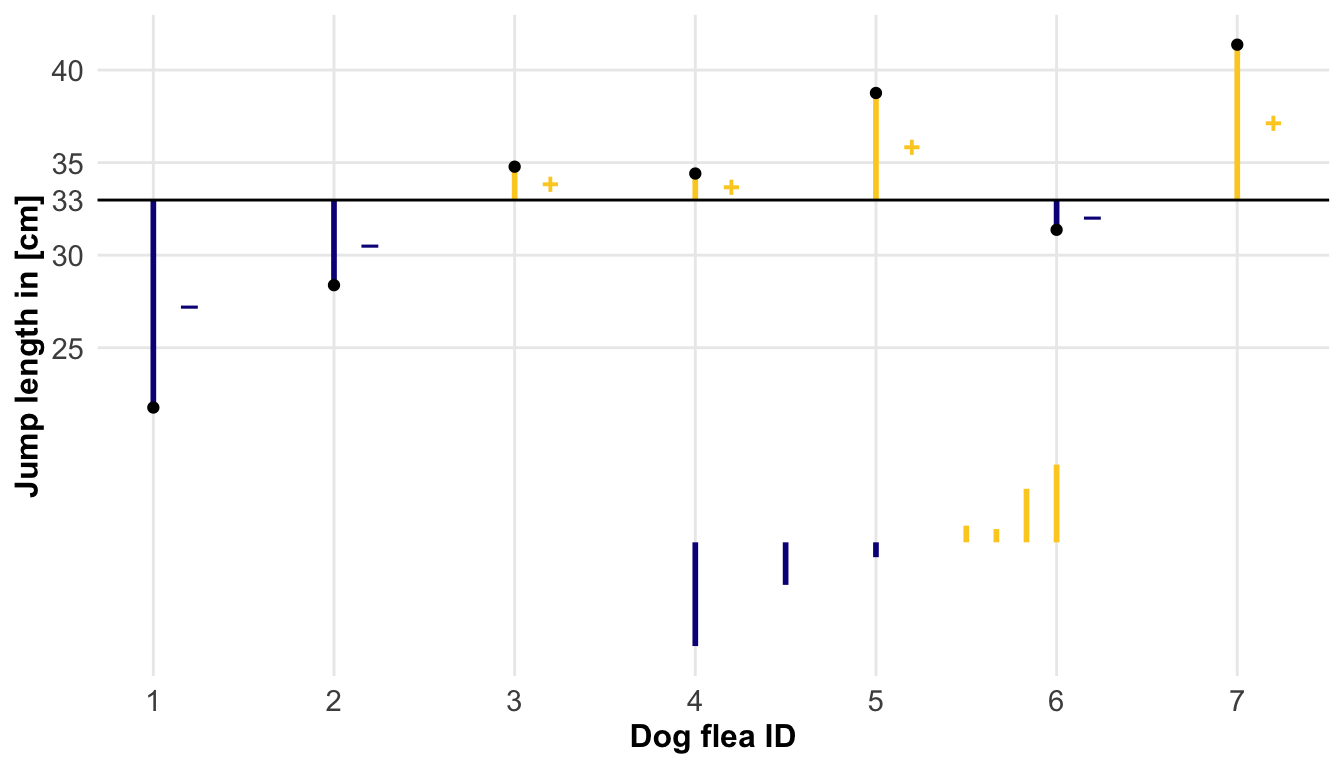
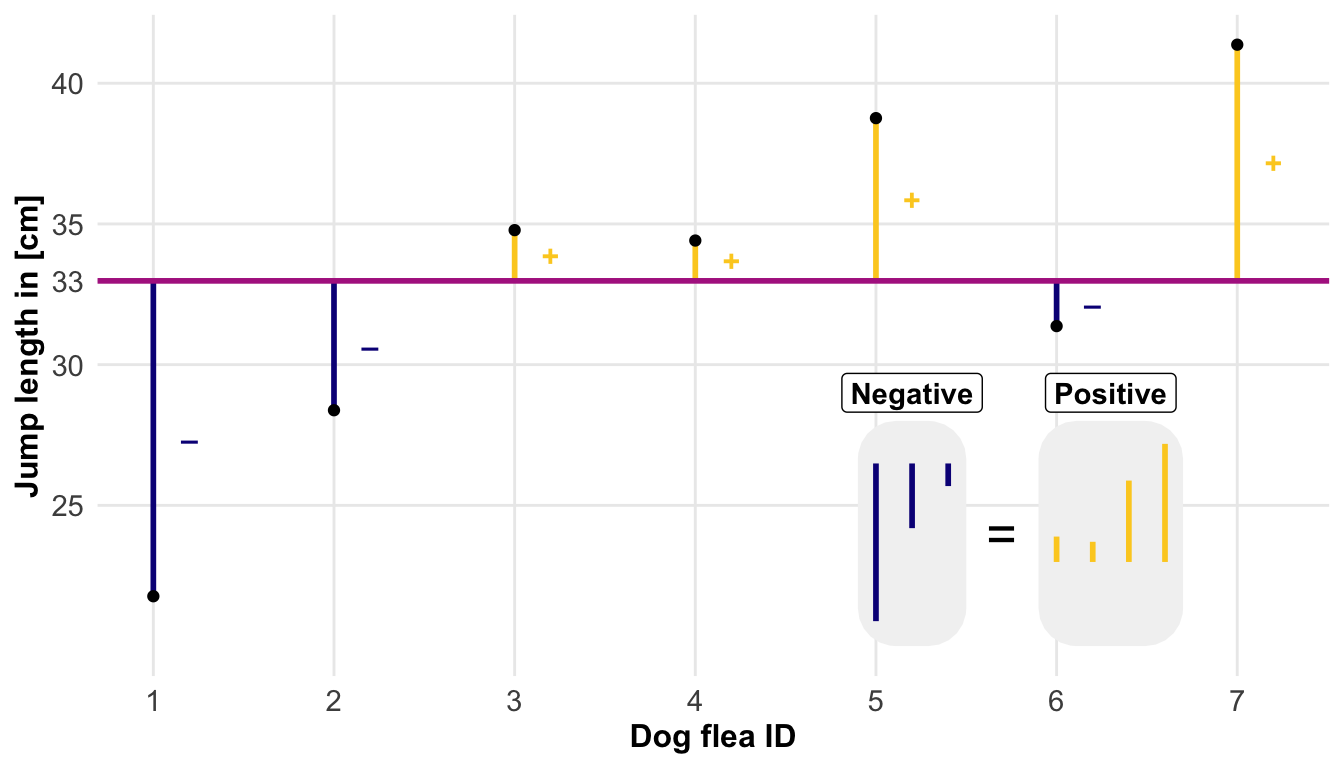
added

diff --git a/docs/chapter-41-eda.html b/docs/chapter-41-eda.html
@@ -376,7 +376,7 @@ pre > code.sourceCode > span > a:first-child::before { text-decoration: underlin
 </header>
 
 
-<p><em>Last modified on 09. December 2025 at 19:48:35</em></p>
+<p><em>Last modified on 10. December 2025 at 12:57:39</em></p>
 <blockquote class="blockquote">
 <p><em>“A quote.” — Dan Meyer</em></p>
 </blockquote>
@@ -443,6 +443,20 @@ Figure&nbsp;9.1: foo
 </div>
 <figcaption class="quarto-float-caption-bottom quarto-float-caption quarto-float-fig" id="fig-mean-example-caption-0ceaefa1-69ba-4598-a22c-09a6ac19f8ca">
 Figure&nbsp;9.2: foo
+</figcaption>
+</figure>
+</div>
+</div>
+</div>
+<div class="cell" data-layout-align="center">
+<div class="cell-output-display">
+<div id="fig-var-example" class="quarto-float quarto-figure quarto-figure-center anchored" data-fig-align="center">
+<figure class="quarto-float quarto-float-fig figure">
+<div aria-describedby="fig-var-example-caption-0ceaefa1-69ba-4598-a22c-09a6ac19f8ca">
+<a href="chapter-41-eda_files/figure-html/fig-var-example-1.png" class="lightbox" data-gallery="quarto-lightbox-gallery-3" title="Figure&nbsp;9.3: foo"><img src="chapter-41-eda_files/figure-html/fig-var-example-1.png" class="img-fluid quarto-figure quarto-figure-center figure-img" width="864"></a>
+</div>
+<figcaption class="quarto-float-caption-bottom quarto-float-caption quarto-float-fig" id="fig-var-example-caption-0ceaefa1-69ba-4598-a22c-09a6ac19f8ca">
+Figure&nbsp;9.3: foo
 </figcaption>
 </figure>
 </div>
@@ -1059,42 +1073,101 @@ Figure&nbsp;9.2: foo
 <span id="cb4-83"><a href="#cb4-83" aria-hidden="true" tabindex="-1"></a>                   <span class="at">color =</span> sign), <span class="at">show.legend =</span> <span class="cn">FALSE</span>, <span class="at">size =</span> <span class="dv">1</span>) <span class="sc">+</span></span>
 <span id="cb4-84"><a href="#cb4-84" aria-hidden="true" tabindex="-1"></a>  <span class="fu">geom_text</span>(<span class="fu">aes</span>(<span class="at">x =</span> <span class="dv">1</span><span class="sc">:</span><span class="dv">7</span>, <span class="at">y =</span> jumplength <span class="sc">-</span> e<span class="sc">/</span><span class="dv">2</span>, <span class="at">label =</span> sign, <span class="at">color =</span> sign),</span>
 <span id="cb4-85"><a href="#cb4-85" aria-hidden="true" tabindex="-1"></a>            <span class="at">size =</span> <span class="dv">4</span>, <span class="at">position =</span> <span class="fu">position_nudge</span>(<span class="fl">0.2</span>), <span class="at">fontface =</span> <span class="dv">2</span>, <span class="at">show.legend =</span> <span class="cn">FALSE</span>) <span class="sc">+</span></span>
-<span id="cb4-86"><a href="#cb4-86" aria-hidden="true" tabindex="-1"></a>  <span class="fu">geom_hline</span>(<span class="at">yintercept =</span> mean_dog_jump) <span class="sc">+</span></span>
+<span id="cb4-86"><a href="#cb4-86" aria-hidden="true" tabindex="-1"></a>  <span class="fu">geom_hline</span>(<span class="at">yintercept =</span> mean_dog_jump, <span class="at">color =</span> <span class="st">"#B12A90FF"</span>, <span class="at">size =</span> <span class="dv">1</span>) <span class="sc">+</span></span>
 <span id="cb4-87"><a href="#cb4-87" aria-hidden="true" tabindex="-1"></a>  <span class="fu">geom_point</span>() <span class="sc">+</span></span>
 <span id="cb4-88"><a href="#cb4-88" aria-hidden="true" tabindex="-1"></a>  <span class="fu">scale_x_continuous</span>(<span class="at">breaks =</span> <span class="dv">1</span><span class="sc">:</span><span class="dv">7</span>) <span class="sc">+</span></span>
 <span id="cb4-89"><a href="#cb4-89" aria-hidden="true" tabindex="-1"></a>  <span class="fu">scale_y_continuous</span>(<span class="at">breaks =</span> <span class="fu">c</span>(<span class="dv">25</span>, <span class="dv">30</span>, mean_dog_jump, <span class="dv">35</span>, <span class="dv">40</span>),</span>
 <span id="cb4-90"><a href="#cb4-90" aria-hidden="true" tabindex="-1"></a>                     <span class="at">labels =</span> <span class="fu">c</span>(<span class="st">"25"</span>, <span class="st">"30"</span>, <span class="fu">round</span>(mean_dog_jump,<span class="dv">1</span>), <span class="st">"35"</span>, <span class="st">"40"</span>)) <span class="sc">+</span></span>
 <span id="cb4-91"><a href="#cb4-91" aria-hidden="true" tabindex="-1"></a>  <span class="fu">labs</span>(<span class="at">x =</span> <span class="st">"Dog flea ID"</span>, <span class="at">y =</span> <span class="st">"Jump length in [cm]"</span>) <span class="sc">+</span></span>
 <span id="cb4-92"><a href="#cb4-92" aria-hidden="true" tabindex="-1"></a>  <span class="fu">scale_color_viridis</span>(<span class="at">discrete =</span> <span class="cn">TRUE</span>, <span class="at">option =</span> <span class="st">"plasma"</span>, <span class="at">end =</span> <span class="fl">0.9</span>) <span class="sc">+</span></span>
-<span id="cb4-93"><a href="#cb4-93" aria-hidden="true" tabindex="-1"></a>  <span class="fu">geom_segment</span>(<span class="at">data =</span> <span class="fu">filter</span>(jump_dog_plot_tbl, sign <span class="sc">==</span> <span class="st">"\U2012"</span>),</span>
-<span id="cb4-94"><a href="#cb4-94" aria-hidden="true" tabindex="-1"></a>    <span class="fu">aes</span>(<span class="at">x =</span> <span class="fu">seq</span>(<span class="dv">4</span>, <span class="dv">5</span>, <span class="at">length.out =</span> <span class="dv">3</span>), <span class="at">xend =</span> <span class="fu">seq</span>(<span class="dv">4</span>, <span class="dv">5</span>, <span class="at">length.out =</span> <span class="dv">3</span>), </span>
-<span id="cb4-95"><a href="#cb4-95" aria-hidden="true" tabindex="-1"></a>                   <span class="at">y =</span> (jumplength<span class="dv">-4</span>)<span class="sc">/</span><span class="dv">2</span>, <span class="at">yend =</span> (mean_dog_jump<span class="dv">-4</span>)<span class="sc">/</span><span class="dv">2</span>, </span>
-<span id="cb4-96"><a href="#cb4-96" aria-hidden="true" tabindex="-1"></a>                   <span class="at">color =</span> sign), <span class="at">show.legend =</span> <span class="cn">FALSE</span>, <span class="at">size =</span> <span class="dv">1</span>) <span class="sc">+</span></span>
-<span id="cb4-97"><a href="#cb4-97" aria-hidden="true" tabindex="-1"></a>  <span class="fu">geom_segment</span>(<span class="at">data =</span> <span class="fu">filter</span>(jump_dog_plot_tbl, sign <span class="sc">==</span> <span class="st">"+"</span>),</span>
-<span id="cb4-98"><a href="#cb4-98" aria-hidden="true" tabindex="-1"></a>    <span class="fu">aes</span>(<span class="at">x =</span> <span class="fu">seq</span>(<span class="fl">5.5</span>, <span class="dv">6</span>, <span class="at">length.out =</span> <span class="dv">4</span>), <span class="at">xend =</span> <span class="fu">seq</span>(<span class="fl">5.5</span>, <span class="dv">6</span>, <span class="at">length.out =</span> <span class="dv">4</span>), </span>
-<span id="cb4-99"><a href="#cb4-99" aria-hidden="true" tabindex="-1"></a>                   <span class="at">y =</span> (jumplength<span class="dv">-4</span>)<span class="sc">/</span><span class="dv">2</span>, <span class="at">yend =</span> (mean_dog_jump<span class="dv">-4</span>)<span class="sc">/</span><span class="dv">2</span>, </span>
-<span id="cb4-100"><a href="#cb4-100" aria-hidden="true" tabindex="-1"></a>                   <span class="at">color =</span> sign), <span class="at">show.legend =</span> <span class="cn">FALSE</span>, <span class="at">size =</span> <span class="dv">1</span>) </span>
-<span id="cb4-101"><a href="#cb4-101" aria-hidden="true" tabindex="-1"></a></span>
-<span id="cb4-102"><a href="#cb4-102" aria-hidden="true" tabindex="-1"></a><span class="in">```</span></span>
-<span id="cb4-103"><a href="#cb4-103" aria-hidden="true" tabindex="-1"></a></span>
-<span id="cb4-104"><a href="#cb4-104" aria-hidden="true" tabindex="-1"></a></span>
-<span id="cb4-105"><a href="#cb4-105" aria-hidden="true" tabindex="-1"></a><span class="fu">## Alternatives </span></span>
-<span id="cb4-106"><a href="#cb4-106" aria-hidden="true" tabindex="-1"></a></span>
-<span id="cb4-107"><a href="#cb4-107" aria-hidden="true" tabindex="-1"></a>Further tutorials and R packages on XXX</span>
-<span id="cb4-108"><a href="#cb4-108" aria-hidden="true" tabindex="-1"></a></span>
-<span id="cb4-109"><a href="#cb4-109" aria-hidden="true" tabindex="-1"></a><span class="fu">## Glossary</span></span>
-<span id="cb4-110"><a href="#cb4-110" aria-hidden="true" tabindex="-1"></a></span>
-<span id="cb4-111"><a href="#cb4-111" aria-hidden="true" tabindex="-1"></a>term</span>
+<span id="cb4-93"><a href="#cb4-93" aria-hidden="true" tabindex="-1"></a>  <span class="fu">geom_shape</span>(<span class="at">data =</span> <span class="fu">tibble</span>(<span class="at">x =</span> <span class="fu">c</span>(<span class="fl">4.9</span>, <span class="fl">5.5</span>, <span class="fl">5.5</span>, <span class="fl">4.9</span>), </span>
+<span id="cb4-94"><a href="#cb4-94" aria-hidden="true" tabindex="-1"></a>                           <span class="at">y =</span> <span class="fu">c</span>(<span class="dv">20</span>, <span class="dv">20</span>, <span class="dv">28</span>, <span class="dv">28</span>)),</span>
+<span id="cb4-95"><a href="#cb4-95" aria-hidden="true" tabindex="-1"></a>             <span class="fu">aes</span>(x, y), <span class="at">radius =</span> <span class="fu">unit</span>(<span class="fl">0.5</span>, <span class="st">'cm'</span>), <span class="at">fill =</span> <span class="st">"gray95"</span>) <span class="sc">+</span></span>
+<span id="cb4-96"><a href="#cb4-96" aria-hidden="true" tabindex="-1"></a>  <span class="fu">geom_shape</span>(<span class="at">data =</span> <span class="fu">tibble</span>(<span class="at">x =</span> <span class="fu">c</span>(<span class="fl">5.9</span>, <span class="fl">6.7</span>, <span class="fl">6.7</span>, <span class="fl">5.9</span>), </span>
+<span id="cb4-97"><a href="#cb4-97" aria-hidden="true" tabindex="-1"></a>                           <span class="at">y =</span> <span class="fu">c</span>(<span class="dv">20</span>, <span class="dv">20</span>, <span class="dv">28</span>, <span class="dv">28</span>)),</span>
+<span id="cb4-98"><a href="#cb4-98" aria-hidden="true" tabindex="-1"></a>             <span class="fu">aes</span>(x, y), <span class="at">radius =</span> <span class="fu">unit</span>(<span class="fl">0.5</span>, <span class="st">'cm'</span>), <span class="at">fill =</span> <span class="st">"gray95"</span>) <span class="sc">+</span></span>
+<span id="cb4-99"><a href="#cb4-99" aria-hidden="true" tabindex="-1"></a>  <span class="fu">annotate</span>(<span class="st">"label"</span>, <span class="at">x =</span> <span class="fl">5.2</span>, <span class="at">y =</span> <span class="dv">29</span>, <span class="at">label =</span> <span class="st">"Negative"</span>, <span class="at">fontface =</span> <span class="dv">2</span>) <span class="sc">+</span></span>
+<span id="cb4-100"><a href="#cb4-100" aria-hidden="true" tabindex="-1"></a>  <span class="fu">annotate</span>(<span class="st">"label"</span>, <span class="at">x =</span> <span class="fl">6.3</span>, <span class="at">y =</span> <span class="dv">29</span>, <span class="at">label =</span> <span class="st">"Positive"</span>, <span class="at">fontface =</span> <span class="dv">2</span>) <span class="sc">+</span></span>
+<span id="cb4-101"><a href="#cb4-101" aria-hidden="true" tabindex="-1"></a>  <span class="fu">geom_segment</span>(<span class="at">data =</span> <span class="fu">filter</span>(jump_dog_plot_tbl, sign <span class="sc">==</span> <span class="st">"\U2012"</span>),</span>
+<span id="cb4-102"><a href="#cb4-102" aria-hidden="true" tabindex="-1"></a>    <span class="fu">aes</span>(<span class="at">x =</span> <span class="dv">5</span> <span class="sc">+</span> <span class="fu">c</span>(<span class="dv">0</span>, <span class="fl">0.2</span>, <span class="fl">0.4</span>), <span class="at">xend =</span> <span class="dv">5</span> <span class="sc">+</span> <span class="fu">c</span>(<span class="dv">0</span>, <span class="fl">0.2</span>, <span class="fl">0.4</span>), </span>
+<span id="cb4-103"><a href="#cb4-103" aria-hidden="true" tabindex="-1"></a>                   <span class="at">y =</span> (jumplength<span class="sc">+</span><span class="dv">20</span>)<span class="sc">/</span><span class="dv">2</span>, <span class="at">yend =</span> (mean_dog_jump<span class="sc">+</span><span class="dv">20</span>)<span class="sc">/</span><span class="dv">2</span>, </span>
+<span id="cb4-104"><a href="#cb4-104" aria-hidden="true" tabindex="-1"></a>                   <span class="at">color =</span> sign), <span class="at">show.legend =</span> <span class="cn">FALSE</span>, <span class="at">size =</span> <span class="dv">1</span>) <span class="sc">+</span></span>
+<span id="cb4-105"><a href="#cb4-105" aria-hidden="true" tabindex="-1"></a>  <span class="fu">geom_segment</span>(<span class="at">data =</span> <span class="fu">filter</span>(jump_dog_plot_tbl, sign <span class="sc">==</span> <span class="st">"+"</span>),</span>
+<span id="cb4-106"><a href="#cb4-106" aria-hidden="true" tabindex="-1"></a>    <span class="fu">aes</span>(<span class="at">x =</span> <span class="dv">6</span> <span class="sc">+</span> <span class="fu">c</span>(<span class="dv">0</span>, <span class="fl">0.2</span>, <span class="fl">0.4</span>, <span class="fl">0.6</span>), <span class="at">xend =</span> <span class="dv">6</span> <span class="sc">+</span> <span class="fu">c</span>(<span class="dv">0</span>, <span class="fl">0.2</span>, <span class="fl">0.4</span>, <span class="fl">0.6</span>), </span>
+<span id="cb4-107"><a href="#cb4-107" aria-hidden="true" tabindex="-1"></a>                   <span class="at">y =</span> (jumplength<span class="sc">+</span><span class="dv">13</span>)<span class="sc">/</span><span class="dv">2</span>, <span class="at">yend =</span> (mean_dog_jump<span class="sc">+</span><span class="dv">13</span>)<span class="sc">/</span><span class="dv">2</span>, </span>
+<span id="cb4-108"><a href="#cb4-108" aria-hidden="true" tabindex="-1"></a>                   <span class="at">color =</span> sign), <span class="at">show.legend =</span> <span class="cn">FALSE</span>, <span class="at">size =</span> <span class="dv">1</span>) <span class="sc">+</span></span>
+<span id="cb4-109"><a href="#cb4-109" aria-hidden="true" tabindex="-1"></a>  <span class="fu">annotate</span>(<span class="st">"text"</span>, <span class="at">x =</span> <span class="fl">5.7</span>, <span class="at">y =</span> <span class="dv">24</span>, <span class="at">label =</span> <span class="st">"="</span>, <span class="at">size =</span> <span class="dv">7</span>) </span>
+<span id="cb4-110"><a href="#cb4-110" aria-hidden="true" tabindex="-1"></a>  </span>
+<span id="cb4-111"><a href="#cb4-111" aria-hidden="true" tabindex="-1"></a><span class="in">```</span></span>
 <span id="cb4-112"><a href="#cb4-112" aria-hidden="true" tabindex="-1"></a></span>
-<span id="cb4-113"><a href="#cb4-113" aria-hidden="true" tabindex="-1"></a>: what does it mean.</span>
-<span id="cb4-114"><a href="#cb4-114" aria-hidden="true" tabindex="-1"></a></span>
-<span id="cb4-115"><a href="#cb4-115" aria-hidden="true" tabindex="-1"></a><span class="fu">## The meaning of "Models of Reality" in this chapter.</span></span>
-<span id="cb4-116"><a href="#cb4-116" aria-hidden="true" tabindex="-1"></a></span>
-<span id="cb4-117"><a href="#cb4-117" aria-hidden="true" tabindex="-1"></a><span class="ss">- </span>itemize with max. 5-6 words</span>
-<span id="cb4-118"><a href="#cb4-118" aria-hidden="true" tabindex="-1"></a></span>
-<span id="cb4-119"><a href="#cb4-119" aria-hidden="true" tabindex="-1"></a><span class="fu">## Summary</span></span>
-<span id="cb4-120"><a href="#cb4-120" aria-hidden="true" tabindex="-1"></a></span>
-<span id="cb4-121"><a href="#cb4-121" aria-hidden="true" tabindex="-1"></a><span class="fu">## References {.unnumbered}</span></span>
+<span id="cb4-115"><a href="#cb4-115" aria-hidden="true" tabindex="-1"></a><span class="in">```{r}</span></span>
+<span id="cb4-116"><a href="#cb4-116" aria-hidden="true" tabindex="-1"></a><span class="co">#| message: false</span></span>
+<span id="cb4-117"><a href="#cb4-117" aria-hidden="true" tabindex="-1"></a><span class="co">#| echo: false</span></span>
+<span id="cb4-118"><a href="#cb4-118" aria-hidden="true" tabindex="-1"></a><span class="co">#| warning: false</span></span>
+<span id="cb4-119"><a href="#cb4-119" aria-hidden="true" tabindex="-1"></a><span class="co">#| fig-align: center</span></span>
+<span id="cb4-120"><a href="#cb4-120" aria-hidden="true" tabindex="-1"></a><span class="co">#| fig-height: 5</span></span>
+<span id="cb4-121"><a href="#cb4-121" aria-hidden="true" tabindex="-1"></a><span class="co">#| fig-width: 9</span></span>
+<span id="cb4-122"><a href="#cb4-122" aria-hidden="true" tabindex="-1"></a><span class="co">#| fig-cap: "foo"</span></span>
+<span id="cb4-123"><a href="#cb4-123" aria-hidden="true" tabindex="-1"></a><span class="co">#| label: fig-var-example</span></span>
+<span id="cb4-124"><a href="#cb4-124" aria-hidden="true" tabindex="-1"></a></span>
+<span id="cb4-125"><a href="#cb4-125" aria-hidden="true" tabindex="-1"></a>mean_dog_jump <span class="ot">&lt;-</span> <span class="fu">mean</span>(jump_dog_tbl<span class="sc">$</span>jumplength)</span>
+<span id="cb4-126"><a href="#cb4-126" aria-hidden="true" tabindex="-1"></a></span>
+<span id="cb4-127"><a href="#cb4-127" aria-hidden="true" tabindex="-1"></a>jump_dog_plot_tbl <span class="ot">&lt;-</span> jump_dog_tbl <span class="sc">|&gt;</span></span>
+<span id="cb4-128"><a href="#cb4-128" aria-hidden="true" tabindex="-1"></a>  <span class="fu">mutate</span>(<span class="at">jump_length =</span> jumplength,</span>
+<span id="cb4-129"><a href="#cb4-129" aria-hidden="true" tabindex="-1"></a>         <span class="at">e =</span> jumplength <span class="sc">-</span> mean_dog_jump,</span>
+<span id="cb4-130"><a href="#cb4-130" aria-hidden="true" tabindex="-1"></a>         <span class="at">sign =</span> <span class="fu">as_factor</span>(<span class="fu">ifelse</span>(<span class="fu">sign</span>(e) <span class="sc">==</span> <span class="sc">-</span><span class="dv">1</span>, <span class="st">"\U2012"</span>, <span class="st">"+"</span>)))</span>
+<span id="cb4-131"><a href="#cb4-131" aria-hidden="true" tabindex="-1"></a></span>
+<span id="cb4-132"><a href="#cb4-132" aria-hidden="true" tabindex="-1"></a>sum_e_dog_jump <span class="ot">&lt;-</span> <span class="fu">sum</span>(<span class="fu">abs</span>(jump_dog_plot_tbl<span class="sc">$</span>e))</span>
+<span id="cb4-133"><a href="#cb4-133" aria-hidden="true" tabindex="-1"></a></span>
+<span id="cb4-134"><a href="#cb4-134" aria-hidden="true" tabindex="-1"></a>jump_dog_plot_tbl <span class="sc">|&gt;</span> </span>
+<span id="cb4-135"><a href="#cb4-135" aria-hidden="true" tabindex="-1"></a>  <span class="fu">ggplot</span>(<span class="fu">aes</span>(<span class="at">x =</span> <span class="dv">1</span><span class="sc">:</span><span class="dv">7</span>, <span class="at">y =</span> jumplength)) <span class="sc">+</span></span>
+<span id="cb4-136"><a href="#cb4-136" aria-hidden="true" tabindex="-1"></a>  <span class="fu">theme_book</span>() <span class="sc">+</span></span>
+<span id="cb4-137"><a href="#cb4-137" aria-hidden="true" tabindex="-1"></a>  <span class="fu">coord_equal</span>() <span class="sc">+</span></span>
+<span id="cb4-138"><a href="#cb4-138" aria-hidden="true" tabindex="-1"></a>  <span class="fu">annotate</span>(<span class="st">"segment"</span>, <span class="at">x =</span> <span class="fu">rep</span>(<span class="sc">-</span><span class="dv">2</span>, <span class="dv">4</span>), <span class="at">xend =</span> <span class="fu">rep</span>(<span class="dv">14</span>, <span class="dv">4</span>),</span>
+<span id="cb4-139"><a href="#cb4-139" aria-hidden="true" tabindex="-1"></a>           <span class="at">y =</span> <span class="fu">c</span>(<span class="dv">25</span>, <span class="dv">30</span>, <span class="dv">35</span>, <span class="dv">40</span>), <span class="at">yend =</span> <span class="fu">c</span>(<span class="dv">25</span>, <span class="dv">30</span>, <span class="dv">35</span>, <span class="dv">40</span>),</span>
+<span id="cb4-140"><a href="#cb4-140" aria-hidden="true" tabindex="-1"></a>           <span class="at">color =</span> <span class="st">"gray95"</span>) <span class="sc">+</span></span>
+<span id="cb4-141"><a href="#cb4-141" aria-hidden="true" tabindex="-1"></a>  <span class="fu">geom_vline</span>(<span class="at">xintercept =</span> <span class="dv">1</span><span class="sc">:</span><span class="dv">7</span>, <span class="at">color =</span> <span class="st">"gray95"</span>) <span class="sc">+</span></span>
+<span id="cb4-142"><a href="#cb4-142" aria-hidden="true" tabindex="-1"></a>  <span class="fu">geom_tile</span>(<span class="fu">aes</span>(<span class="at">x =</span> <span class="dv">1</span><span class="sc">:</span><span class="dv">7</span> <span class="sc">-</span> e<span class="sc">/</span><span class="dv">2</span>, </span>
+<span id="cb4-143"><a href="#cb4-143" aria-hidden="true" tabindex="-1"></a>                <span class="at">y =</span> jumplength <span class="sc">-</span> e<span class="sc">/</span><span class="dv">2</span>, </span>
+<span id="cb4-144"><a href="#cb4-144" aria-hidden="true" tabindex="-1"></a>                <span class="at">width =</span> e, <span class="at">height =</span> e), <span class="at">fill =</span> <span class="st">"#FCA63680"</span>,</span>
+<span id="cb4-145"><a href="#cb4-145" aria-hidden="true" tabindex="-1"></a>            <span class="at">alpha =</span> <span class="fl">0.2</span>, <span class="at">color =</span> <span class="st">"#FCA636FF"</span>, <span class="at">linewidth =</span> <span class="fl">0.5</span>) <span class="sc">+</span></span>
+<span id="cb4-146"><a href="#cb4-146" aria-hidden="true" tabindex="-1"></a>  <span class="fu">geom_tile</span>(<span class="fu">aes</span>(<span class="at">x =</span> <span class="fu">c</span>(<span class="dv">20</span>, <span class="fl">28.4</span>, <span class="fl">28.4</span>, <span class="fl">31.5</span>, <span class="dv">34</span>, <span class="dv">35</span>, <span class="fl">41.6</span>), </span>
+<span id="cb4-147"><a href="#cb4-147" aria-hidden="true" tabindex="-1"></a>                <span class="at">y =</span> <span class="fu">c</span>(<span class="dv">40</span>, <span class="dv">42</span>, <span class="dv">37</span>, <span class="dv">37</span>, <span class="dv">42</span>, <span class="dv">37</span>, <span class="dv">40</span>), </span>
+<span id="cb4-148"><a href="#cb4-148" aria-hidden="true" tabindex="-1"></a>                <span class="at">width =</span> e, <span class="at">height =</span> e), <span class="at">fill =</span> <span class="st">"#FCA63680"</span>,</span>
+<span id="cb4-149"><a href="#cb4-149" aria-hidden="true" tabindex="-1"></a>            <span class="at">alpha =</span> <span class="fl">0.2</span>, <span class="at">color =</span> <span class="st">"#FCA636FF"</span>, <span class="at">linewidth =</span> <span class="fl">0.5</span>) <span class="sc">+</span></span>
+<span id="cb4-150"><a href="#cb4-150" aria-hidden="true" tabindex="-1"></a>  <span class="fu">annotate</span>(<span class="st">"tile"</span>, <span class="at">x =</span> <span class="dv">25</span>,<span class="at">y =</span> <span class="dv">28</span>, </span>
+<span id="cb4-151"><a href="#cb4-151" aria-hidden="true" tabindex="-1"></a>           <span class="at">width =</span> sum_e_dog_jump<span class="sc">/</span><span class="dv">7</span>, <span class="at">height =</span> sum_e_dog_jump<span class="sc">/</span><span class="dv">7</span>, <span class="at">fill =</span> <span class="st">"#FCA63680"</span>,</span>
+<span id="cb4-152"><a href="#cb4-152" aria-hidden="true" tabindex="-1"></a>           <span class="at">alpha =</span> <span class="fl">0.2</span>, <span class="at">color =</span> <span class="st">"#FCA636FF"</span>, <span class="at">linewidth =</span> <span class="fl">0.5</span>) <span class="sc">+</span></span>
+<span id="cb4-153"><a href="#cb4-153" aria-hidden="true" tabindex="-1"></a>  <span class="fu">geom_segment</span>(<span class="at">x =</span> <span class="sc">-</span><span class="dv">2</span>, <span class="at">xend =</span> <span class="dv">13</span>, </span>
+<span id="cb4-154"><a href="#cb4-154" aria-hidden="true" tabindex="-1"></a>               <span class="at">y =</span> mean_dog_jump, <span class="at">yend =</span> mean_dog_jump, <span class="at">color =</span> <span class="st">"#B12A90FF"</span>, <span class="at">size =</span> <span class="dv">1</span>) <span class="sc">+</span></span>
+<span id="cb4-155"><a href="#cb4-155" aria-hidden="true" tabindex="-1"></a>  <span class="fu">geom_point</span>() <span class="sc">+</span></span>
+<span id="cb4-156"><a href="#cb4-156" aria-hidden="true" tabindex="-1"></a>  <span class="fu">scale_x_continuous</span>(<span class="at">breaks =</span> <span class="dv">1</span><span class="sc">:</span><span class="dv">7</span>, <span class="at">limits =</span> <span class="fu">c</span>(<span class="cn">NA</span>, <span class="dv">46</span>)) <span class="sc">+</span></span>
+<span id="cb4-157"><a href="#cb4-157" aria-hidden="true" tabindex="-1"></a>  <span class="fu">scale_y_continuous</span>(<span class="at">breaks =</span> <span class="fu">c</span>(<span class="dv">25</span>, <span class="dv">30</span>, mean_dog_jump, <span class="dv">35</span>, <span class="dv">40</span>),</span>
+<span id="cb4-158"><a href="#cb4-158" aria-hidden="true" tabindex="-1"></a>                     <span class="at">labels =</span> <span class="fu">c</span>(<span class="st">"25"</span>, <span class="st">"30"</span>, <span class="fu">round</span>(mean_dog_jump,<span class="dv">1</span>), <span class="st">"35"</span>, <span class="st">"40"</span>),</span>
+<span id="cb4-159"><a href="#cb4-159" aria-hidden="true" tabindex="-1"></a>                     <span class="at">limits =</span> <span class="fu">c</span>(<span class="cn">NA</span>, <span class="cn">NA</span>)) <span class="sc">+</span></span>
+<span id="cb4-160"><a href="#cb4-160" aria-hidden="true" tabindex="-1"></a>  <span class="fu">labs</span>(<span class="at">x =</span> <span class="fu">str_pad</span>(<span class="st">"Dog flea ID"</span>, <span class="dv">100</span>, <span class="st">"right"</span>), <span class="at">y =</span> <span class="st">"Jump length in [cm]"</span>) <span class="sc">+</span></span>
+<span id="cb4-161"><a href="#cb4-161" aria-hidden="true" tabindex="-1"></a>  <span class="fu">scale_color_viridis</span>(<span class="at">discrete =</span> <span class="cn">TRUE</span>, <span class="at">option =</span> <span class="st">"plasma"</span>, <span class="at">end =</span> <span class="fl">0.9</span>) <span class="sc">+</span></span>
+<span id="cb4-162"><a href="#cb4-162" aria-hidden="true" tabindex="-1"></a>  <span class="fu">theme</span>(<span class="at">panel.grid =</span> <span class="fu">element_blank</span>())</span>
+<span id="cb4-163"><a href="#cb4-163" aria-hidden="true" tabindex="-1"></a><span class="in">```</span></span>
+<span id="cb4-164"><a href="#cb4-164" aria-hidden="true" tabindex="-1"></a></span>
+<span id="cb4-165"><a href="#cb4-165" aria-hidden="true" tabindex="-1"></a></span>
+<span id="cb4-166"><a href="#cb4-166" aria-hidden="true" tabindex="-1"></a><span class="fu">## Alternatives </span></span>
+<span id="cb4-167"><a href="#cb4-167" aria-hidden="true" tabindex="-1"></a></span>
+<span id="cb4-168"><a href="#cb4-168" aria-hidden="true" tabindex="-1"></a>Further tutorials and R packages on XXX</span>
+<span id="cb4-169"><a href="#cb4-169" aria-hidden="true" tabindex="-1"></a></span>
+<span id="cb4-170"><a href="#cb4-170" aria-hidden="true" tabindex="-1"></a><span class="fu">## Glossary</span></span>
+<span id="cb4-171"><a href="#cb4-171" aria-hidden="true" tabindex="-1"></a></span>
+<span id="cb4-172"><a href="#cb4-172" aria-hidden="true" tabindex="-1"></a>term</span>
+<span id="cb4-173"><a href="#cb4-173" aria-hidden="true" tabindex="-1"></a></span>
+<span id="cb4-174"><a href="#cb4-174" aria-hidden="true" tabindex="-1"></a>: what does it mean.</span>
+<span id="cb4-175"><a href="#cb4-175" aria-hidden="true" tabindex="-1"></a></span>
+<span id="cb4-176"><a href="#cb4-176" aria-hidden="true" tabindex="-1"></a><span class="fu">## The meaning of "Models of Reality" in this chapter.</span></span>
+<span id="cb4-177"><a href="#cb4-177" aria-hidden="true" tabindex="-1"></a></span>
+<span id="cb4-178"><a href="#cb4-178" aria-hidden="true" tabindex="-1"></a><span class="ss">- </span>itemize with max. 5-6 words</span>
+<span id="cb4-179"><a href="#cb4-179" aria-hidden="true" tabindex="-1"></a></span>
+<span id="cb4-180"><a href="#cb4-180" aria-hidden="true" tabindex="-1"></a><span class="fu">## Summary</span></span>
+<span id="cb4-181"><a href="#cb4-181" aria-hidden="true" tabindex="-1"></a></span>
+<span id="cb4-182"><a href="#cb4-182" aria-hidden="true" tabindex="-1"></a><span class="fu">## References {.unnumbered}</span></span>
 </code></pre></div><button title="Copy to Clipboard" class="code-copy-button" data-in-quarto-modal=""><i class="bi"></i></button></div>
 </div></div></div></div></div>
 </div> <!-- /content -->
